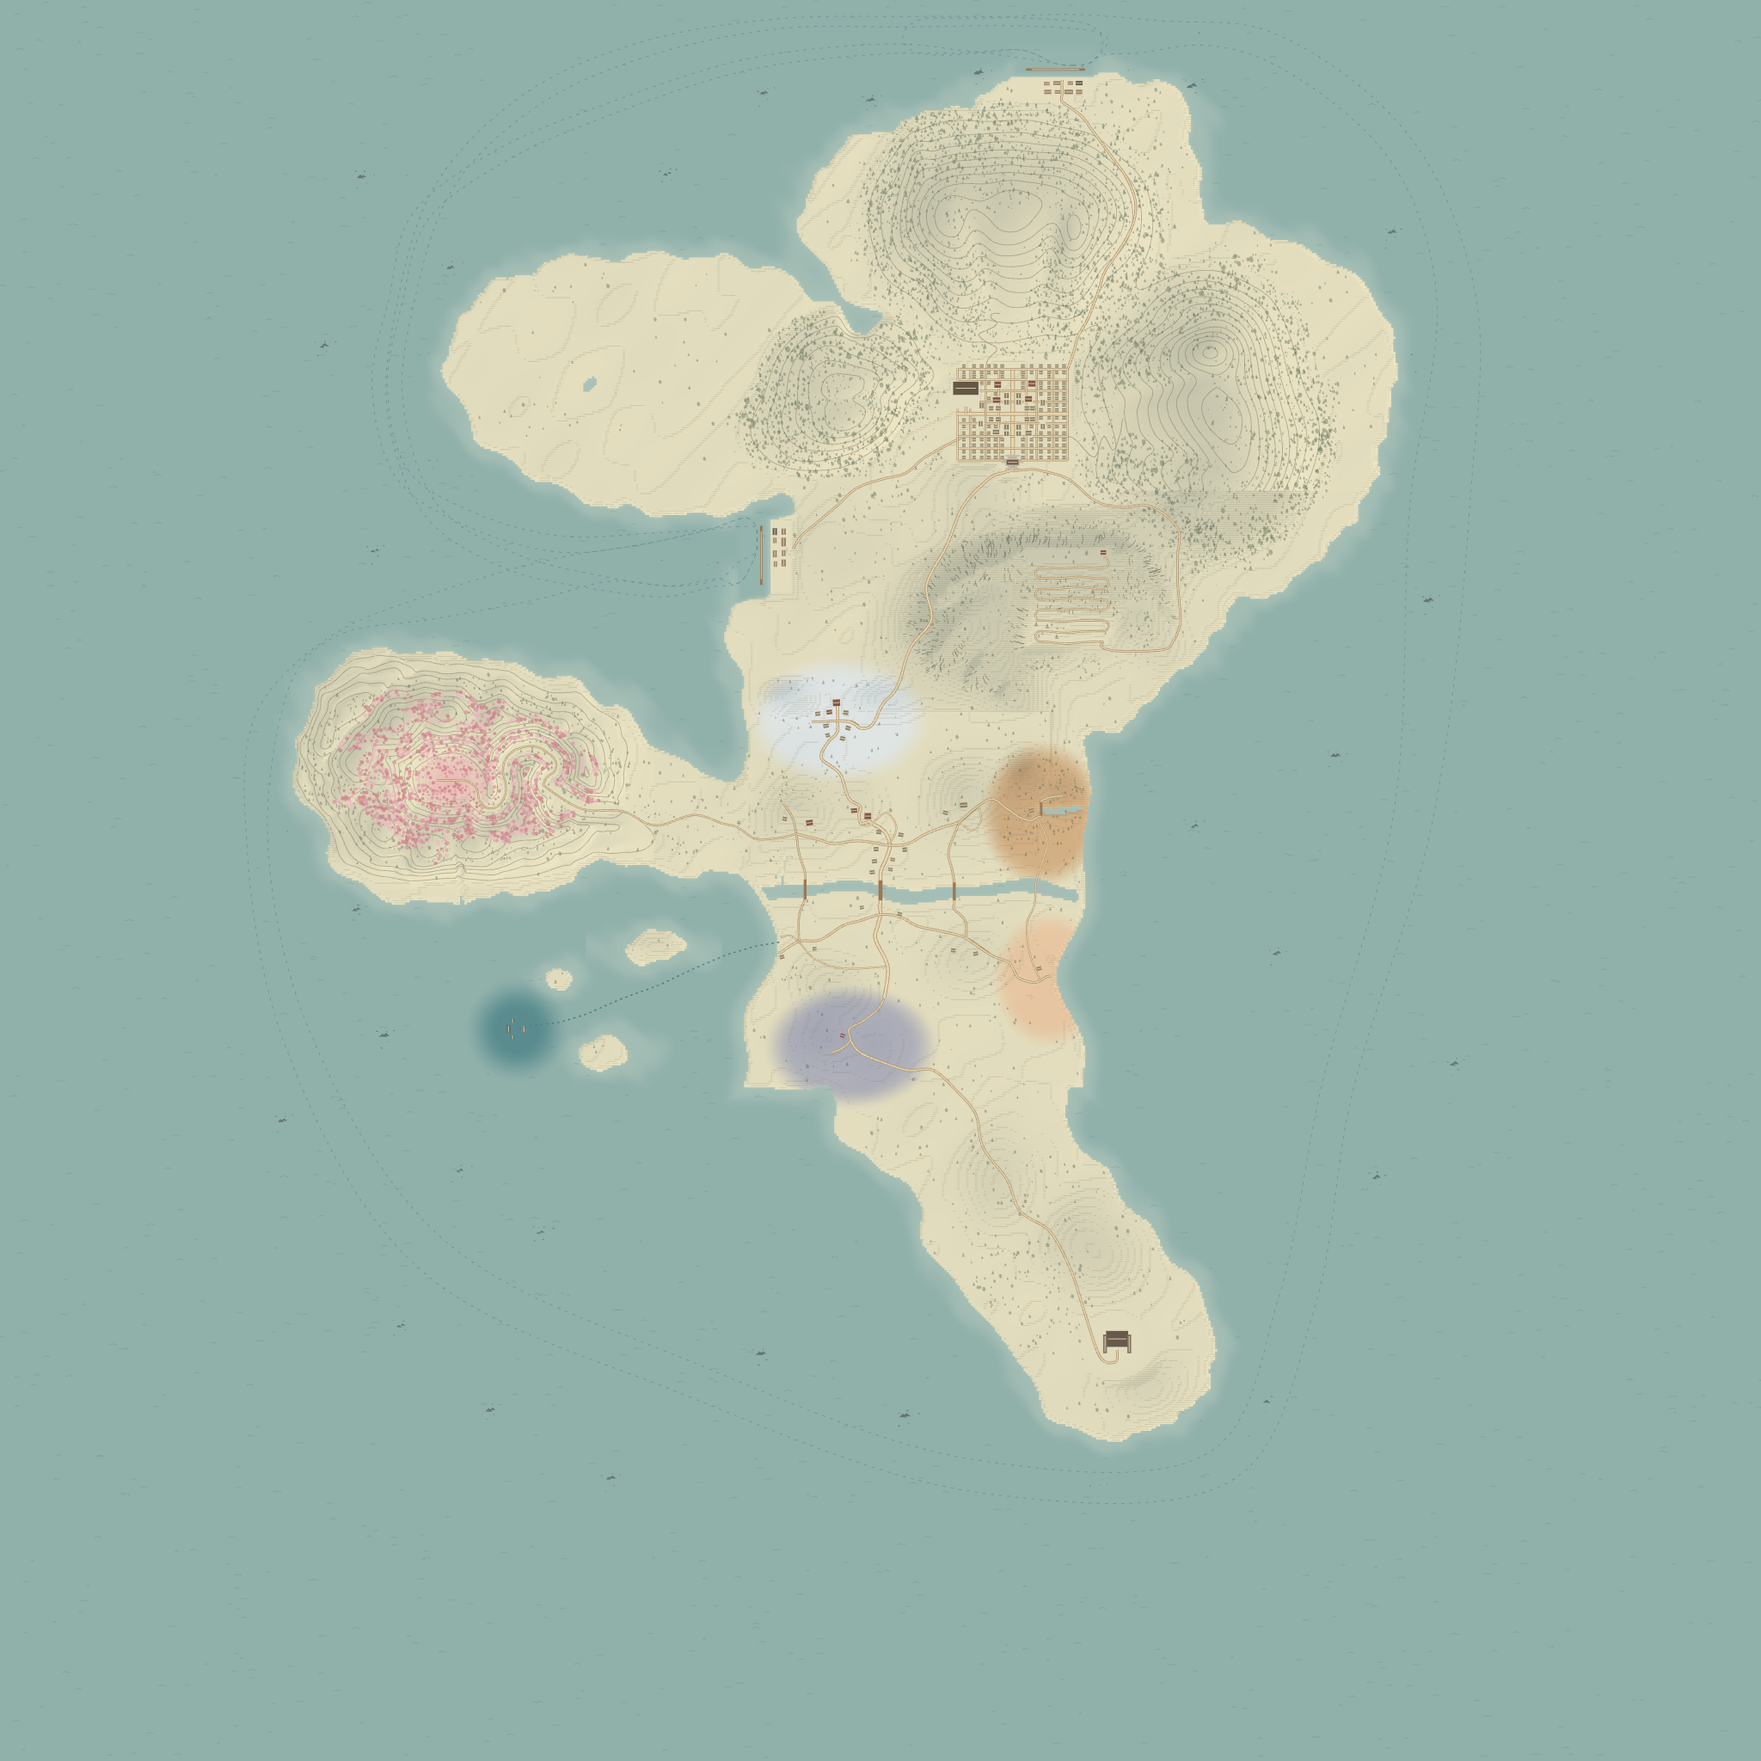
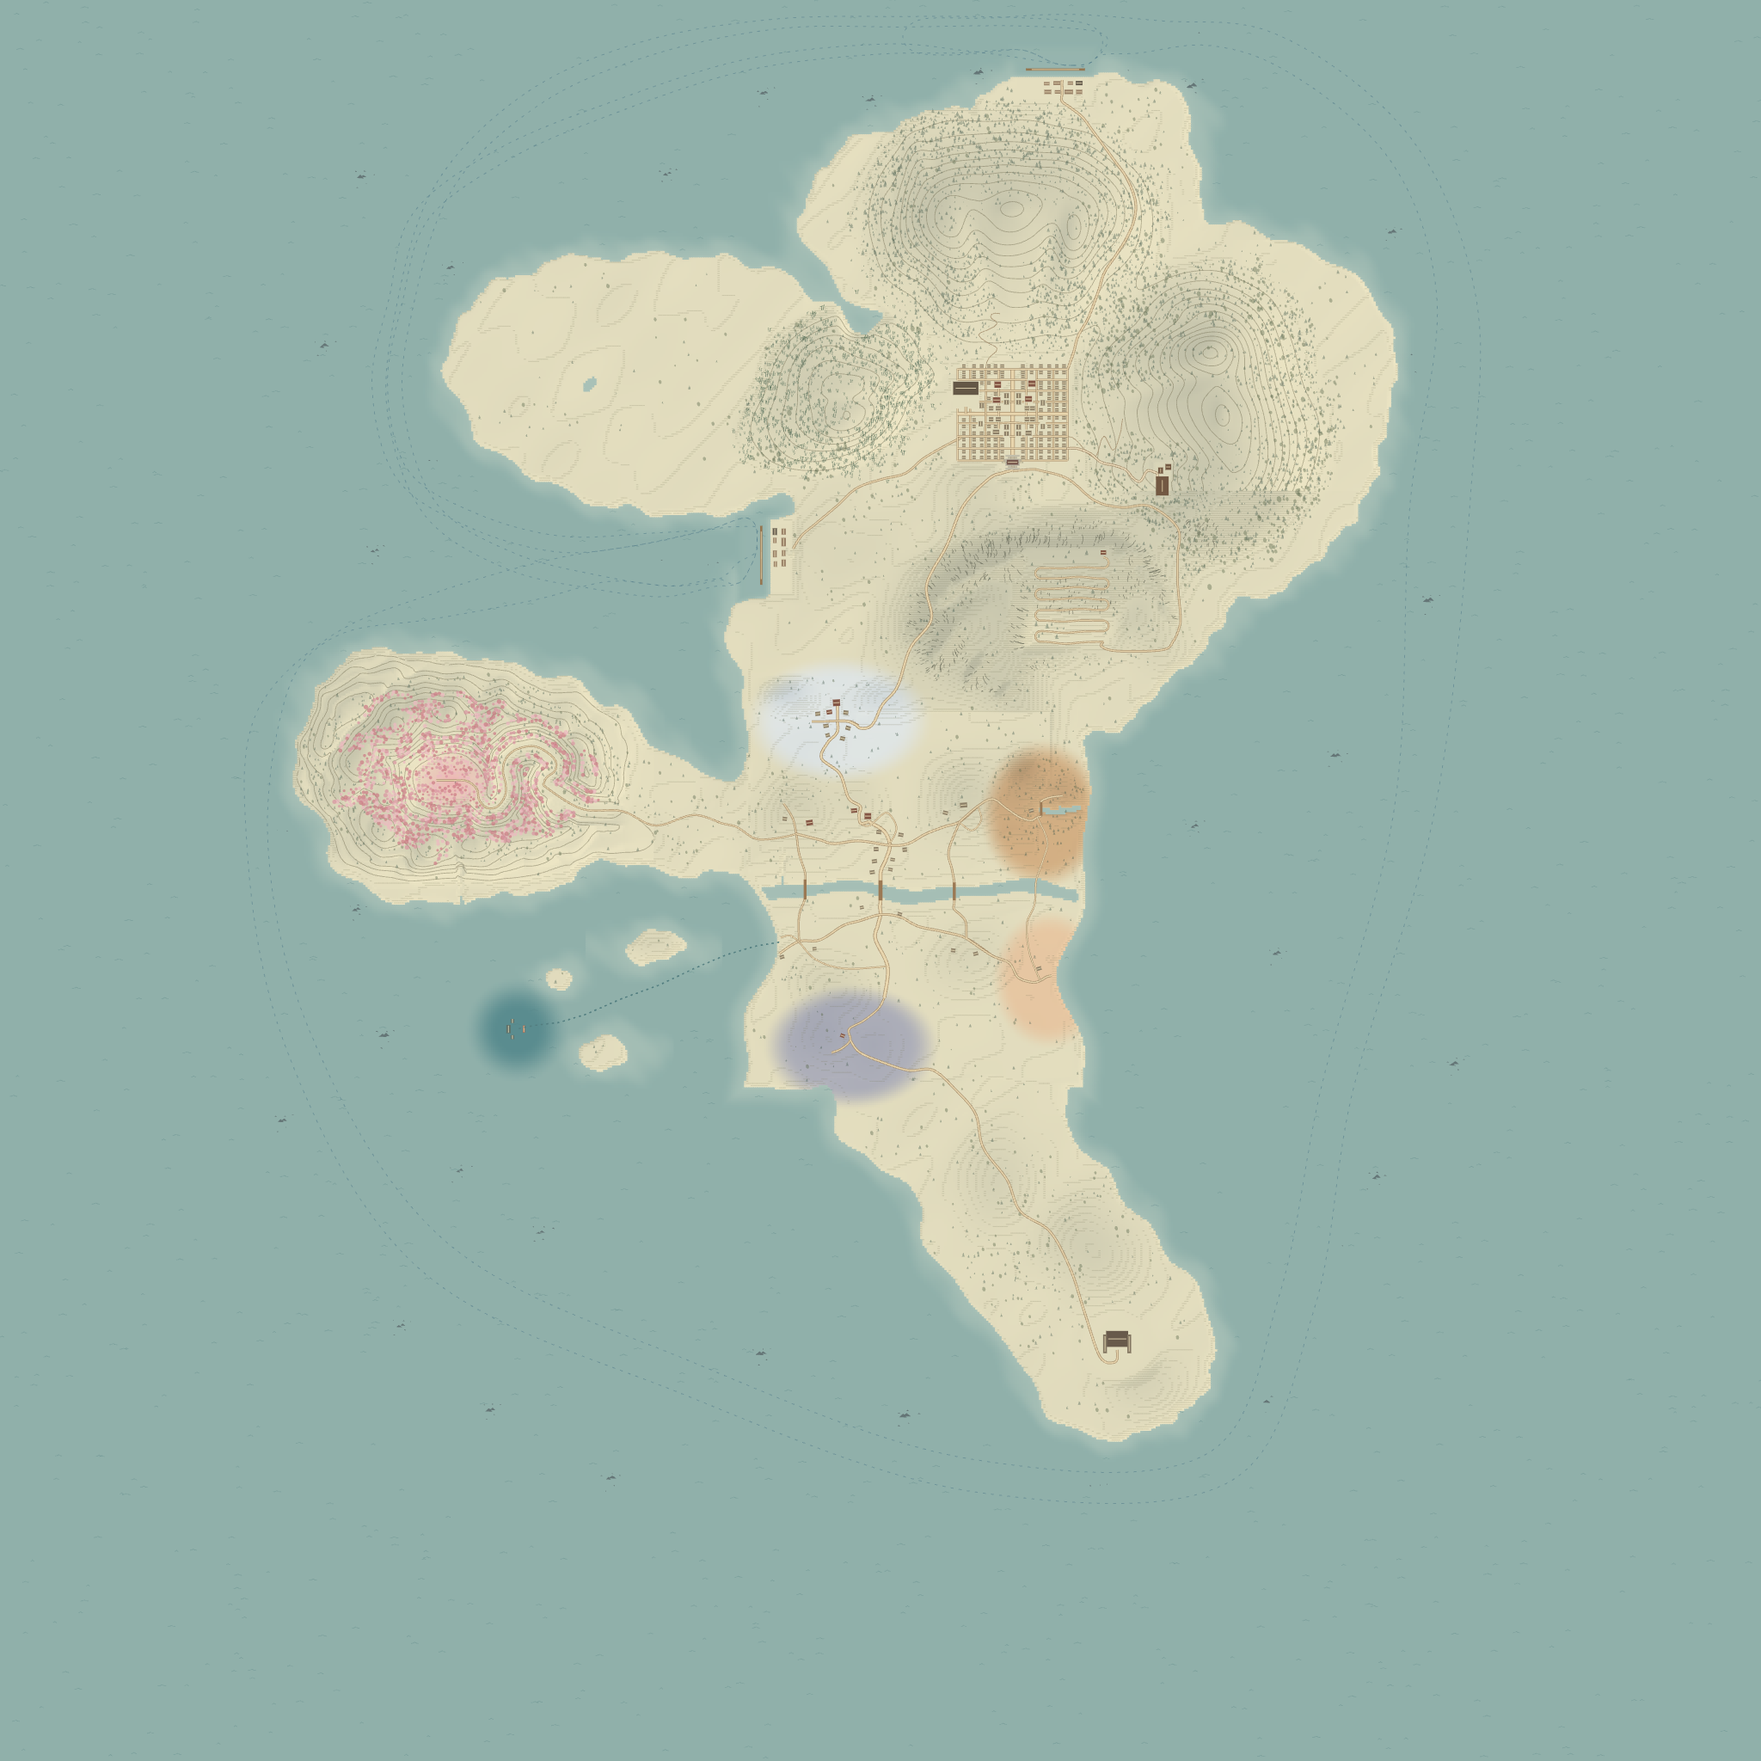
Grow moso bamboo across four fifths of Kyoto's western mountain woods

Changed region(s): [[0.4062, 0.0625, 0.625, 0.2812], [0.5938, 0.0938, 0.7812, 0.3125]]

diff --git a/two/forest.js b/two/forest.js
@@ -6,13 +6,17 @@ import { forestGeometry, forestMaterial, forestTexture } from './forest-mesh.js'
 
 const NEAR = 28, FAR = 42, RANGE = 314, STEP = 3;
 const KYOTO_NEAR = 21, KYOTO_FAR = 30;
+// A bamboo crown contains six to eleven jointed culms with overlapping leaf
+// sprays. Its ink silhouette takes over sooner on the densely planted slope.
+const BAMBOO_NEAR = 17, BAMBOO_FAR = 25;
+const detailNear=[NEAR,KYOTO_NEAR,BAMBOO_NEAR], detailFar=[FAR,KYOTO_FAR,BAMBOO_FAR];
 const phaseDeclaration = 'varying float forestDistance;\n';
 const dither = 'float screenSeed=fract(52.9829189*fract(dot(floor(gl_FragCoord.xy),vec2(.06711056,.00583715))));';
 function fade(shader, far) {
   shader.fragmentShader = phaseDeclaration+shader.fragmentShader.replace('#include <alphatest_fragment>',
     '#include <alphatest_fragment>\n'+dither+
-    `float transition=smoothstep(mix(${NEAR}.,${KYOTO_NEAR}.,inkTree),
-      mix(${FAR}.,${KYOTO_FAR}.,inkTree),forestDistance);`+
+    `float transition=smoothstep(mix(mix(${NEAR}.,${KYOTO_NEAR}.,inkTree),${BAMBOO_NEAR}.,inkBamboo),
+      mix(mix(${FAR}.,${KYOTO_FAR}.,inkTree),${BAMBOO_FAR}.,inkBamboo),forestDistance);`+
     (far?'if(screenSeed >= transition) discard;':'if(screenSeed < transition) discard;'));
 }
 export function* prepareForest(scene, clock) {
@@ -39,7 +43,8 @@ export function* prepareForest(scene, clock) {
     const folds=kyoto ? .52*Math.sin(.047*t.x+.015*t.z)+.32*Math.cos(.057*t.z-.021*t.x)
       +.16*Math.sin(.112*t.x-.058*t.z) : 0;
     const tint=(.86+(t.seed%131)*.0019)*(kyoto ? .77+.34*folds : 1);
-    grove.trees.push({tree:t,ground,rotation:t.seed*2.39996323,range,kyoto,tint});
+    const inkGrove=kyoto ? (t.kind==='moso' ? 2 : 1) : 0;
+    grove.trees.push({tree:t,ground,rotation:t.seed*2.39996323,range,inkGrove,tint});
     grove.range=Math.max(grove.range,range);
     for(let i=cellAt(t.x-nearRadius);i<=cellAt(t.x+nearRadius);i++)
       for(let j=cellAt(t.z-nearRadius);j<=cellAt(t.z+nearRadius);j++){
@@ -69,10 +74,11 @@ export function* prepareForest(scene, clock) {
     shader.uniforms.forestClock=clock;
     shader.uniforms.heroView=heroView;
     shader.uniforms.heroRadius=heroRadius;
-    shader.vertexShader=phaseDeclaration+'uniform float forestClock; attribute float inkGrove; varying float inkTree; varying vec3 canopyView;\n'+shader.vertexShader.replace('#include <begin_vertex>',
+    shader.vertexShader=phaseDeclaration+'uniform float forestClock; attribute float inkGrove; varying float inkTree,inkBamboo; varying vec3 canopyView;\n'+shader.vertexShader.replace('#include <begin_vertex>',
       `#include <begin_vertex>
        vec3 root=instanceMatrix[3].xyz;
-       inkTree=inkGrove;
+       inkTree=min(inkGrove,1.);
+       inkBamboo=step(1.5,inkGrove);
        forestDistance=distance(root,cameraPosition);
        transformed.x+=.0055*pow(max(0.,position.y),1.6)*sin(root.x*.18+root.z*.12+forestClock*1.25+position.y*2.);
       `);
@@ -81,7 +87,7 @@ export function* prepareForest(scene, clock) {
     fade(shader,false);
     // Perspective-project the branch fragment onto the plane of the hero. Only
     // fragments in front of the body enter the softly feathered viewing cone.
-    shader.fragmentShader='uniform vec3 heroView; uniform vec2 heroRadius; varying float inkTree; varying vec3 canopyView;\n'+
+    shader.fragmentShader='uniform vec3 heroView; uniform vec2 heroRadius; varying float inkTree,inkBamboo; varying vec3 canopyView;\n'+
       shader.fragmentShader.replace('#include <color_fragment>', `#include <color_fragment>
         if(inkTree>.5) {
           // Near the footpath each folded spray carries a wash. Bark and the
@@ -92,6 +98,9 @@ export function* prepareForest(scene, clock) {
           vec3 wash=mix(ink,leaf,.09+.83*lift);
           float fringe=1.-smoothstep(.36,.80,diffuseColor.a);
           vec3 bark=mix(vec3(.026,.024,.020),vec3(.30,.25,.17),lift);
+          // A dilute green wash follows the jointed bamboo culms under the leaves.
+          vec3 culm=mix(vec3(.046,.064,.038),vec3(.35,.41,.22),lift);
+          bark=mix(bark,culm,inkBamboo);
           diffuseColor.rgb=mix(bark, wash*(1.-.52*fringe),treeLeaf);
         }
       `).replace('#include <opaque_fragment>', `
@@ -136,7 +145,7 @@ export function* prepareForest(scene, clock) {
   const inkCrowns=read('kyo-ink-crowns');
   farMaterial.onBeforeCompile=shader=>{
     shader.uniforms.inkCrowns={value:inkCrowns};
-    shader.vertexShader=phaseDeclaration+'attribute vec4 rootHeight; attribute vec4 treeForm; varying float forestTint,inkTree;\n'+
+    shader.vertexShader=phaseDeclaration+'attribute vec4 rootHeight; attribute vec4 treeForm; varying float forestTint,inkTree,inkBamboo;\n'+
       shader.vertexShader.replace('#include <beginnormal_vertex>','#include <beginnormal_vertex>\nobjectNormal=vec3(0.,1.,0.);').replace('#include <begin_vertex>',`
         vec3 root=rootHeight.xyz;
         forestDistance=distance(cameraPosition,root);
@@ -147,9 +156,9 @@ export function* prepareForest(scene, clock) {
         float aspect=mod(quarter,2.);
         float u=mod(quarter,4.)>1.5 ? 1.-uv.x : uv.x;
         vMapUv=(vec2(mod(treeForm.x,8.)+aspect*8.,7.-floor(treeForm.x/8.))+vec2(u,uv.y))/vec2(16.,8.);
-        forestTint=treeForm.z;inkTree=treeForm.w;
+        forestTint=treeForm.z;inkTree=min(treeForm.w,1.);inkBamboo=step(1.5,treeForm.w);
       `);
-    shader.fragmentShader='uniform sampler2D inkCrowns; varying float forestTint,inkTree;\n'+
+    shader.fragmentShader='uniform sampler2D inkCrowns; varying float forestTint,inkTree,inkBamboo;\n'+
       shader.fragmentShader.replace('#include <map_fragment>', `
         if(inkTree>.5) diffuseColor*=texture2D(inkCrowns,vMapUv);
         else diffuseColor*=texture2D(map,vMapUv);
@@ -190,7 +199,7 @@ export function* prepareForest(scene, clock) {
       crown.center.set(eye.x+gx,grove.centreY,eye.z+gz);
       crown.radius=grove.radius;
       if(!view.intersectsSphere(crown))continue;
-      for(const {tree, ground, rotation, range, kyoto, tint:brightness} of grove.trees) {
+      for(const {tree, ground, rotation, range, inkGrove, tint:brightness} of grove.trees) {
         const dx=wrapDelta(tree.x-eye.x), dz=wrapDelta(tree.z-eye.z);
         const d2=dx*dx+dz*dz+(ground-eye.y)**2;
         if(d2>range*range) continue;
@@ -200,16 +209,16 @@ export function* prepareForest(scene, clock) {
         // turn between updates. A newly visible branch cannot pop at the edge.
         crown.radius=tree.h*1.2+STEP+1+Math.sqrt(d2)*.031;
         if(!view.intersectsSphere(crown))continue;
-        if(d2<((kyoto?KYOTO_FAR:FAR)+STEP+1)**2) {
+        if(d2<(detailFar[inkGrove]+STEP+1)**2) {
           const mesh=near[tree.form], idx=mesh.count++;
           transform.position.set(x,ground,z);transform.rotation.y=rotation;transform.scale.setScalar(tree.h);
           transform.updateMatrix();mesh.setMatrixAt(idx,transform.matrix);
           mesh.setColorAt(idx,tint.setRGB(brightness,brightness,brightness));
-          mesh.geometry.attributes.inkGrove.setX(idx,Number(kyoto));
+          mesh.geometry.attributes.inkGrove.setX(idx,inkGrove);
         }
-        if(d2>((kyoto?KYOTO_NEAR:NEAR)-STEP-1)**2) {
+        if(d2>(detailNear[inkGrove]-STEP-1)**2) {
           roots.setXYZW(used,x,ground,z,tree.h);
-          forms.setXYZW(used,tree.form,rotation%(Math.PI*2),brightness,Number(kyoto));used++;
+          forms.setXYZW(used,tree.form,rotation%(Math.PI*2),brightness,inkGrove);used++;
         }
       }
     }

diff --git a/two/map.js b/two/map.js
@@ -1,4 +1,5 @@
 import { MOUNTAIN_STREAMS } from './mountain-streams.js';
+import { isNishiyamaTree } from './mountain-woodland.js';
 import { PEACH_RANGE_BOUNDS } from './peach-range.js';
 import { DAIBUTSU, INARI_SANCTUARY, PEACH_TREES } from './pilgrimage-layout.js';
 import { PALACE_APPROACH, RYUGU, HALLS, GATE_V } from './ryugu-layout.js';
@@ -24,12 +25,8 @@ let paper, paperRequest;
 export function loadMapPaper() {
   if (!paperRequest) {
     const image = new Image();
-    image.src = new URL('./assets/world/journey-map.webp?v=okuribi-forest-1', import.meta.url).href;
-    paperRequest = image.decode().then(() => {
-      const c=document.createElement('canvas');c.width=c.height=SIZE;
-      const g=c.getContext('2d');g.drawImage(image,0,0,SIZE,SIZE);
-      stampOtowa(g);paper=c;
-    }, () => { paper = paintMapPaper(); });
+    image.src = new URL('./assets/world/journey-map.webp?v=nishiyama-bamboo-1', import.meta.url).href;
+    paperRequest = image.decode().then(() => { paper = image; }, () => { paper = paintMapPaper(); });
   }
   return paperRequest;
 }
@@ -132,9 +129,21 @@ export function paintMapPaper() {
   g.lineWidth=.9;g.strokeStyle='#726d5275';g.stroke(contours);
   // Tiny tapering ink strokes pick out real stands of trees at atlas scale.
   // The ground survey supplies the facing of the dry-brush marks on rock.
+  const culms=new Path2D('M-.14,0 Q-.10,-.50 -.21,-.96 M.13,0 Q.15,-.48 .32,-1.10');
+  const leaves=new Path2D('M-.16,-.62 Q-.45,-.67 -.57,-.93 Q-.25,-.85 -.16,-.62 Z '+
+    'M-.17,-.76 Q-.08,-1.00 .10,-1.02 Q.02,-.81 -.17,-.76 Z '+
+    'M.20,-.58 Q.43,-.80 .64,-.76 Q.49,-.60 .20,-.58 Z '+
+    'M.26,-.86 Q.29,-1.12 .48,-1.24 Q.46,-1.00 .26,-.86 Z');
   for(const t of TREES){
     if(t.seed%6!==0) continue;
     const u=toX(t.x),v=toX(t.z),h=t.h*adj*.64;
+    if(t.kind==='moso' && isNishiyamaTree(t)){
+      const size=Math.max(3.1,h);
+      g.save();g.translate(u,v);g.scale(t.seed%12 ? size : -size,size);
+      g.strokeStyle='#4d6754a8';g.lineWidth=.14;g.stroke(culms);
+      g.fillStyle='#496648b3';g.fill(leaves);g.restore();
+      continue;
+    }
     const broad=t.kind==='oak'||t.kind==='zelkova';
     g.fillStyle=broad?'#59674b66':'#435a4d65';g.beginPath();
     if(broad)g.ellipse(u,v-h*.37,h*.41,h*.56,-.22,0,2*Math.PI);
@@ -164,6 +173,7 @@ export function paintMapPaper() {
     g.quadraticCurveTo(u-dx*w*.45+dz*.7,v-dz*w*.45,u-dx*w,v-dz*w);g.stroke();
   }
   for (const road of ROADS) {
+    if(road===KIYOMIZU_ROAD)continue; // Drawn with the roofs in stampOtowa.
     g.beginPath();
     road.points.forEach(([x, z], i) => (i ? g.lineTo(toX(x), toX(z)) : g.moveTo(toX(x), toX(z))));
     g.strokeStyle = '#aa9371';

diff --git a/two/index.html b/two/index.html
@@ -55,7 +55,7 @@
           "./festival.js": "./festival.js?v=3.3",
           "./forest-forms.js": "./forest-forms.js?v=3.3",
           "./forest-mesh.js": "./forest-mesh.js?v=5.0",
-          "./forest.js": "./forest.js?v=okuribi-forest-1",
+          "./forest.js": "./forest.js?v=nishiyama-bamboo-1",
           "./game.js": "./game.js?v=regional-springs-1-otowa-1",
           "./handscroll-beasts.js": "./handscroll-beasts.js?v=3.3",
           "./ink.js": "./ink.js?v=4.1",
@@ -69,7 +69,7 @@
           "./interiors.js": "./interiors.js?v=3.3",
           "./journey-transfer.js": "./journey-transfer.js?v=3.3",
           "./legend-flight.js": "./legend-flight.js?v=5.0",
-          "./map.js": "./map.js?v=otowa-forest-1",
+          "./map.js": "./map.js?v=nishiyama-bamboo-1",
           "./meadow-herbs.js": "./meadow-herbs.js?v=emaki-landscape-1",
           "./meadow-layout.js": "./meadow-layout.js?v=otowa-forest-1",
           "./meadow.js": "./meadow.js?v=emaki-landscape-1",
@@ -94,7 +94,7 @@
           "./soundscape.js": "./soundscape.js?v=otowa-forest-1",
           "./spring-water.js": "./spring-water.js?v=regional-springs-1",
           "./stone-water.js": "./stone-water.js?v=3.3",
-          "./terrain.js": "./terrain.js?v=otowa-forest-1",
+          "./terrain.js": "./terrain.js?v=nishiyama-bamboo-1",
           "./trade-tools.js": "./trade-tools.js?v=3.3",
           "./turtle-art.js": "./turtle-art.js?v=3.3",
           "./village-paths.js": "./village-paths.js?v=6.2",
@@ -172,7 +172,7 @@
           "./mountain-streams.js": "./mountain-streams.js?v=mountain-streams-1",
           "./mountain-waterfalls.js": "./mountain-waterfalls.js?v=mountain-streams-1",
           "./cascade-pigments.js": "./cascade-pigments.js?v=mountain-streams-1",
-          "./mountain-woodland.js": "./mountain-woodland.js?v=okuribi-forest-1"
+          "./mountain-woodland.js": "./mountain-woodland.js?v=nishiyama-bamboo-1"
         }
       }
     </script>

diff --git a/two/mountain-woodland.js b/two/mountain-woodland.js
@@ -34,6 +34,31 @@ export function woodlandAt(x,z){
   return range;
 }
 
+// Where the skirts of two mountains meet, the surveyed stand owns its trees.
+export function isNishiyamaTree(tree){
+  if(tree.kyotoRidge)return tree.kyotoRidge==='nishi';
+  return westRidgeHeight(tree.x,tree.z)>.5 || woodlandAt(tree.x,tree.z)?.id==='nishi';
+}
+
+export function growNishiyamaBamboo(trees){
+  const stand=trees.filter(isNishiyamaTree);
+  const candidates=stand.filter(t=>t.kind!=='bamboo' && t.kind!=='moso');
+  const existing=stand.length-candidates.length;
+  const target=Math.round(stand.length*.8)-existing;
+  const moso=TREE_FAMILIES.findIndex(([kind])=>kind==='moso');
+  // Neighbouring roots often belong to the same grove. A little seed-scale
+  // variation breaks the edges where the groves meet the surviving trees.
+  const groves=candidates.map(t=>({tree:t, score:
+    Math.sin(.052*t.x+.033*t.z)+.74*Math.sin(.071*t.z-.028*t.x)
+    +.38*Math.cos(.094*t.x-.064*t.z)+.85*((t.seed%997)/997-.5)}));
+  groves.sort((a,b)=>a.score-b.score);
+  for(let i=0;i<target;i++){
+    const tree=groves[i].tree;
+    tree.form=moso*TREE_FORMS_PER_FAMILY+tree.seed%TREE_FORMS_PER_FAMILY;
+    tree.kind=TREE_FAMILIES[moso][0];
+  }
+}
+
 // Small buckets keep both separation between living stems and the silhouettes
 // of older boulders without an all-pairs search.
 function plantingGrid(){

diff --git a/two/terrain.js b/two/terrain.js
@@ -1,7 +1,7 @@
 import { houseCandles,houseFrontLamps,COURT_CANDLES } from './lamp-layout.js';
 import { mountainStreamTerrain, mountainStreamWaterAt, inMountainStreamClearing } from './mountain-streams.js';
 import { nearbyHut, inHutYard, clearingWeight, hutSolids, KETTLE } from './wayside-hut-layout.js';
-import { plantMountainWoods, plantKyotoWoods } from './mountain-woodland.js';
+import { plantMountainWoods, plantKyotoWoods, growNishiyamaBamboo } from './mountain-woodland.js';
 import { RYUGU, palaceSolid } from './ryugu-layout.js';
 import { KIYOMIZU_APPROACH, kiyomizuTerrain, kiyomizuSolids, kiyomizuClearing, kiyomizuViewTree } from './kiyomizu-layout.js';
 import { HIGASHIYAMA, KITAYAMA, NISHIYAMA, KYO_LOOKOUTS, FIRE_COAST, eastRidgeHeight, northRidgeHeight, westRidgeHeight, inFireMeadow, createFireTreeCeiling, fireTrailDistance } from './higashiyama.js';
@@ -961,6 +961,8 @@ for(let i=TREES.length-1;i>=0;i--){
   if(kiyomizuClearing(x,z) || onTempleApproach(x,z,5.3) || hidesValley(t) ||
     x>=350 && x<=491 && z< -693 && z> -847 && kiyomizuViewTree(x,z,terrainHeight(x,z)+t.h))TREES.splice(i,1);
 }
+// Count only the sites left after opening the stage and summit sightlines.
+growNishiyamaBamboo(TREES);
 export const LANDMARK_TREES = TREES.filter(t => t.form === undefined);
 
 // The shrine's small bamboo stands are planted individually between its

diff --git a/two/higashiyama.js b/two/higashiyama.js
@@ -62,7 +62,7 @@ function watershed(a,b,north) {
 export const eastRidgeHeight=(x,z)=>watershed(x-HIGASHIYAMA.x,z-HIGASHIYAMA.z,false);
 export const northRidgeHeight=(x,z)=>watershed(KITAYAMA.z-z,x-KITAYAMA.x,true);
 
-// A lower, overlapping pair of cedar ridges above the road to Sakai. Their
+// A lower, overlapping pair of wooded ridges above the road to Sakai. Their
 // southern toes die out on the town side of the pass; the shore stays open.
 export function westRidgeHeight(x,z) {
   const u=x-NISHIYAMA.x,v=z-NISHIYAMA.z;
